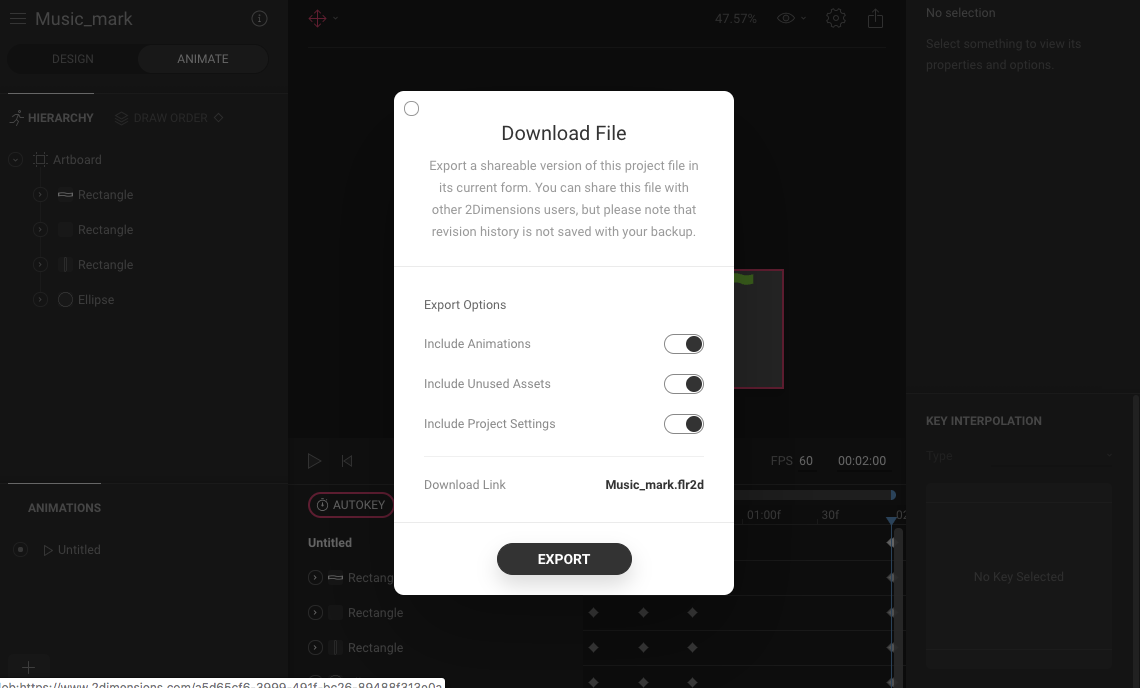
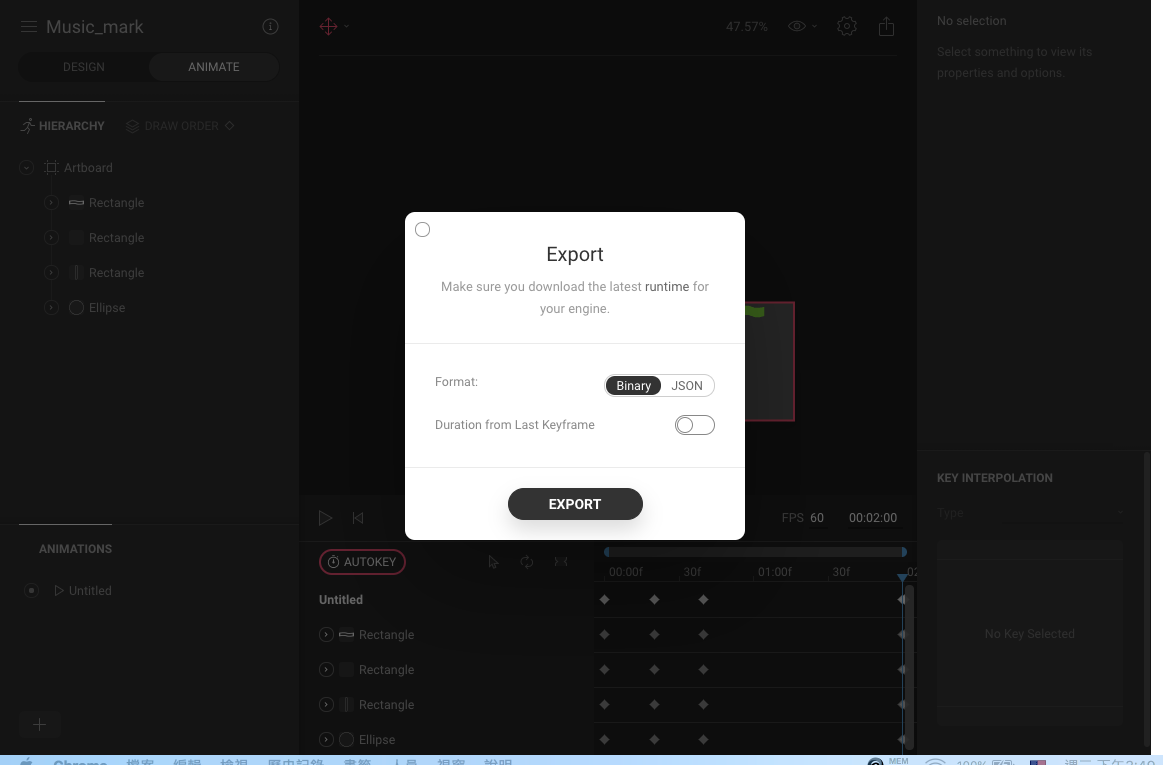
first upload

diff --git a/flare/lib/main.dart b/flare/lib/main.dart
@@ -1,111 +1,37 @@
 import 'package:flutter/material.dart';
+import 'package:flare_flutter/flare_actor.dart';
+
 
 void main() => runApp(MyApp());
 
 class MyApp extends StatelessWidget {
-  // This widget is the root of your application.
   @override
   Widget build(BuildContext context) {
     return MaterialApp(
       title: 'Flutter Demo',
       theme: ThemeData(
-        // This is the theme of your application.
-        //
-        // Try running your application with "flutter run". You'll see the
-        // application has a blue toolbar. Then, without quitting the app, try
-        // changing the primarySwatch below to Colors.green and then invoke
-        // "hot reload" (press "r" in the console where you ran "flutter run",
-        // or simply save your changes to "hot reload" in a Flutter IDE).
-        // Notice that the counter didn't reset back to zero; the application
-        // is not restarted.
         primarySwatch: Colors.blue,
       ),
-      home: MyHomePage(title: 'Flutter Demo Home Page'),
+      home: FlareActionBar()
     );
   }
 }
 
-class MyHomePage extends StatefulWidget {
-  MyHomePage({Key key, this.title}) : super(key: key);
-
-  // This widget is the home page of your application. It is stateful, meaning
-  // that it has a State object (defined below) that contains fields that affect
-  // how it looks.
-
-  // This class is the configuration for the state. It holds the values (in this
-  // case the title) provided by the parent (in this case the App widget) and
-  // used by the build method of the State. Fields in a Widget subclass are
-  // always marked "final".
-
-  final String title;
-
-  @override
-  _MyHomePageState createState() => _MyHomePageState();
-}
-
-class _MyHomePageState extends State<MyHomePage> {
-  int _counter = 0;
-
-  void _incrementCounter() {
-    setState(() {
-      // This call to setState tells the Flutter framework that something has
-      // changed in this State, which causes it to rerun the build method below
-      // so that the display can reflect the updated values. If we changed
-      // _counter without calling setState(), then the build method would not be
-      // called again, and so nothing would appear to happen.
-      _counter++;
-    });
-  }
-
+class FlareActionBar extends StatelessWidget {
   @override
   Widget build(BuildContext context) {
-    // This method is rerun every time setState is called, for instance as done
-    // by the _incrementCounter method above.
-    //
-    // The Flutter framework has been optimized to make rerunning build methods
-    // fast, so that you can just rebuild anything that needs updating rather
-    // than having to individually change instances of widgets.
-    return Scaffold(
-      appBar: AppBar(
-        // Here we take the value from the MyHomePage object that was created by
-        // the App.build method, and use it to set our appbar title.
-        title: Text(widget.title),
-      ),
-      body: Center(
-        // Center is a layout widget. It takes a single child and positions it
-        // in the middle of the parent.
-        child: Column(
-          // Column is also layout widget. It takes a list of children and
-          // arranges them vertically. By default, it sizes itself to fit its
-          // children horizontally, and tries to be as tall as its parent.
-          //
-          // Invoke "debug painting" (press "p" in the console, choose the
-          // "Toggle Debug Paint" action from the Flutter Inspector in Android
-          // Studio, or the "Toggle Debug Paint" command in Visual Studio Code)
-          // to see the wireframe for each widget.
-          //
-          // Column has various properties to control how it sizes itself and
-          // how it positions its children. Here we use mainAxisAlignment to
-          // center the children vertically; the main axis here is the vertical
-          // axis because Columns are vertical (the cross axis would be
-          // horizontal).
-          mainAxisAlignment: MainAxisAlignment.center,
-          children: <Widget>[
-            Text(
-              'You have pushed the button this many times:',
-            ),
-            Text(
-              '$_counter',
-              style: Theme.of(context).textTheme.display1,
-            ),
-          ],
+    return Container(
+      color: Colors.blueGrey,
+      child: SizedBox(
+        width: 200,
+        height: 200,
+        child: FlareActor(
+          "assets/music_mark.flr",
+          animation: "circle",
         ),
       ),
-      floatingActionButton: FloatingActionButton(
-        onPressed: _incrementCounter,
-        tooltip: 'Increment',
-        child: Icon(Icons.add),
-      ), // This trailing comma makes auto-formatting nicer for build methods.
+
     );
+
   }
 }

diff --git a/flare/README.md b/flare/README.md
@@ -2,13 +2,15 @@
 ## [Flare](https://github.com/2d-inc/Flare-Flutter)   
 Flare 提供開發者使用.flr檔案繪製向量圖形與視覺動畫，開發者可以藉由[2dimensions](https://www.2dimensions.com/)網站繪製圖形以及動畫，開發者在網站上可以選擇開放「免費」與私有「付費」，來隱藏Projects。
 
-## 繪製 .flr 向量欓
+## 繪製 .flr 向量檔
 a. 先進入[網站](https://www.2dimensions.com/a/tw00089923/files/flare/music-mark)
 ![dependencies](src/dependencies_2.png)
-b. 將檔案 export
+b. 命稱動畫名稱
+![dependencies](src/dependencies_4.png)
+c. 將檔案 export
 ![dependencies](src/dependencies_3.png)
-c. 存放檔案 
-/project/assets/2d/file_name.flr2d
+d. 存放檔案 
+/project/assets/file_name.flr
 
 
 
